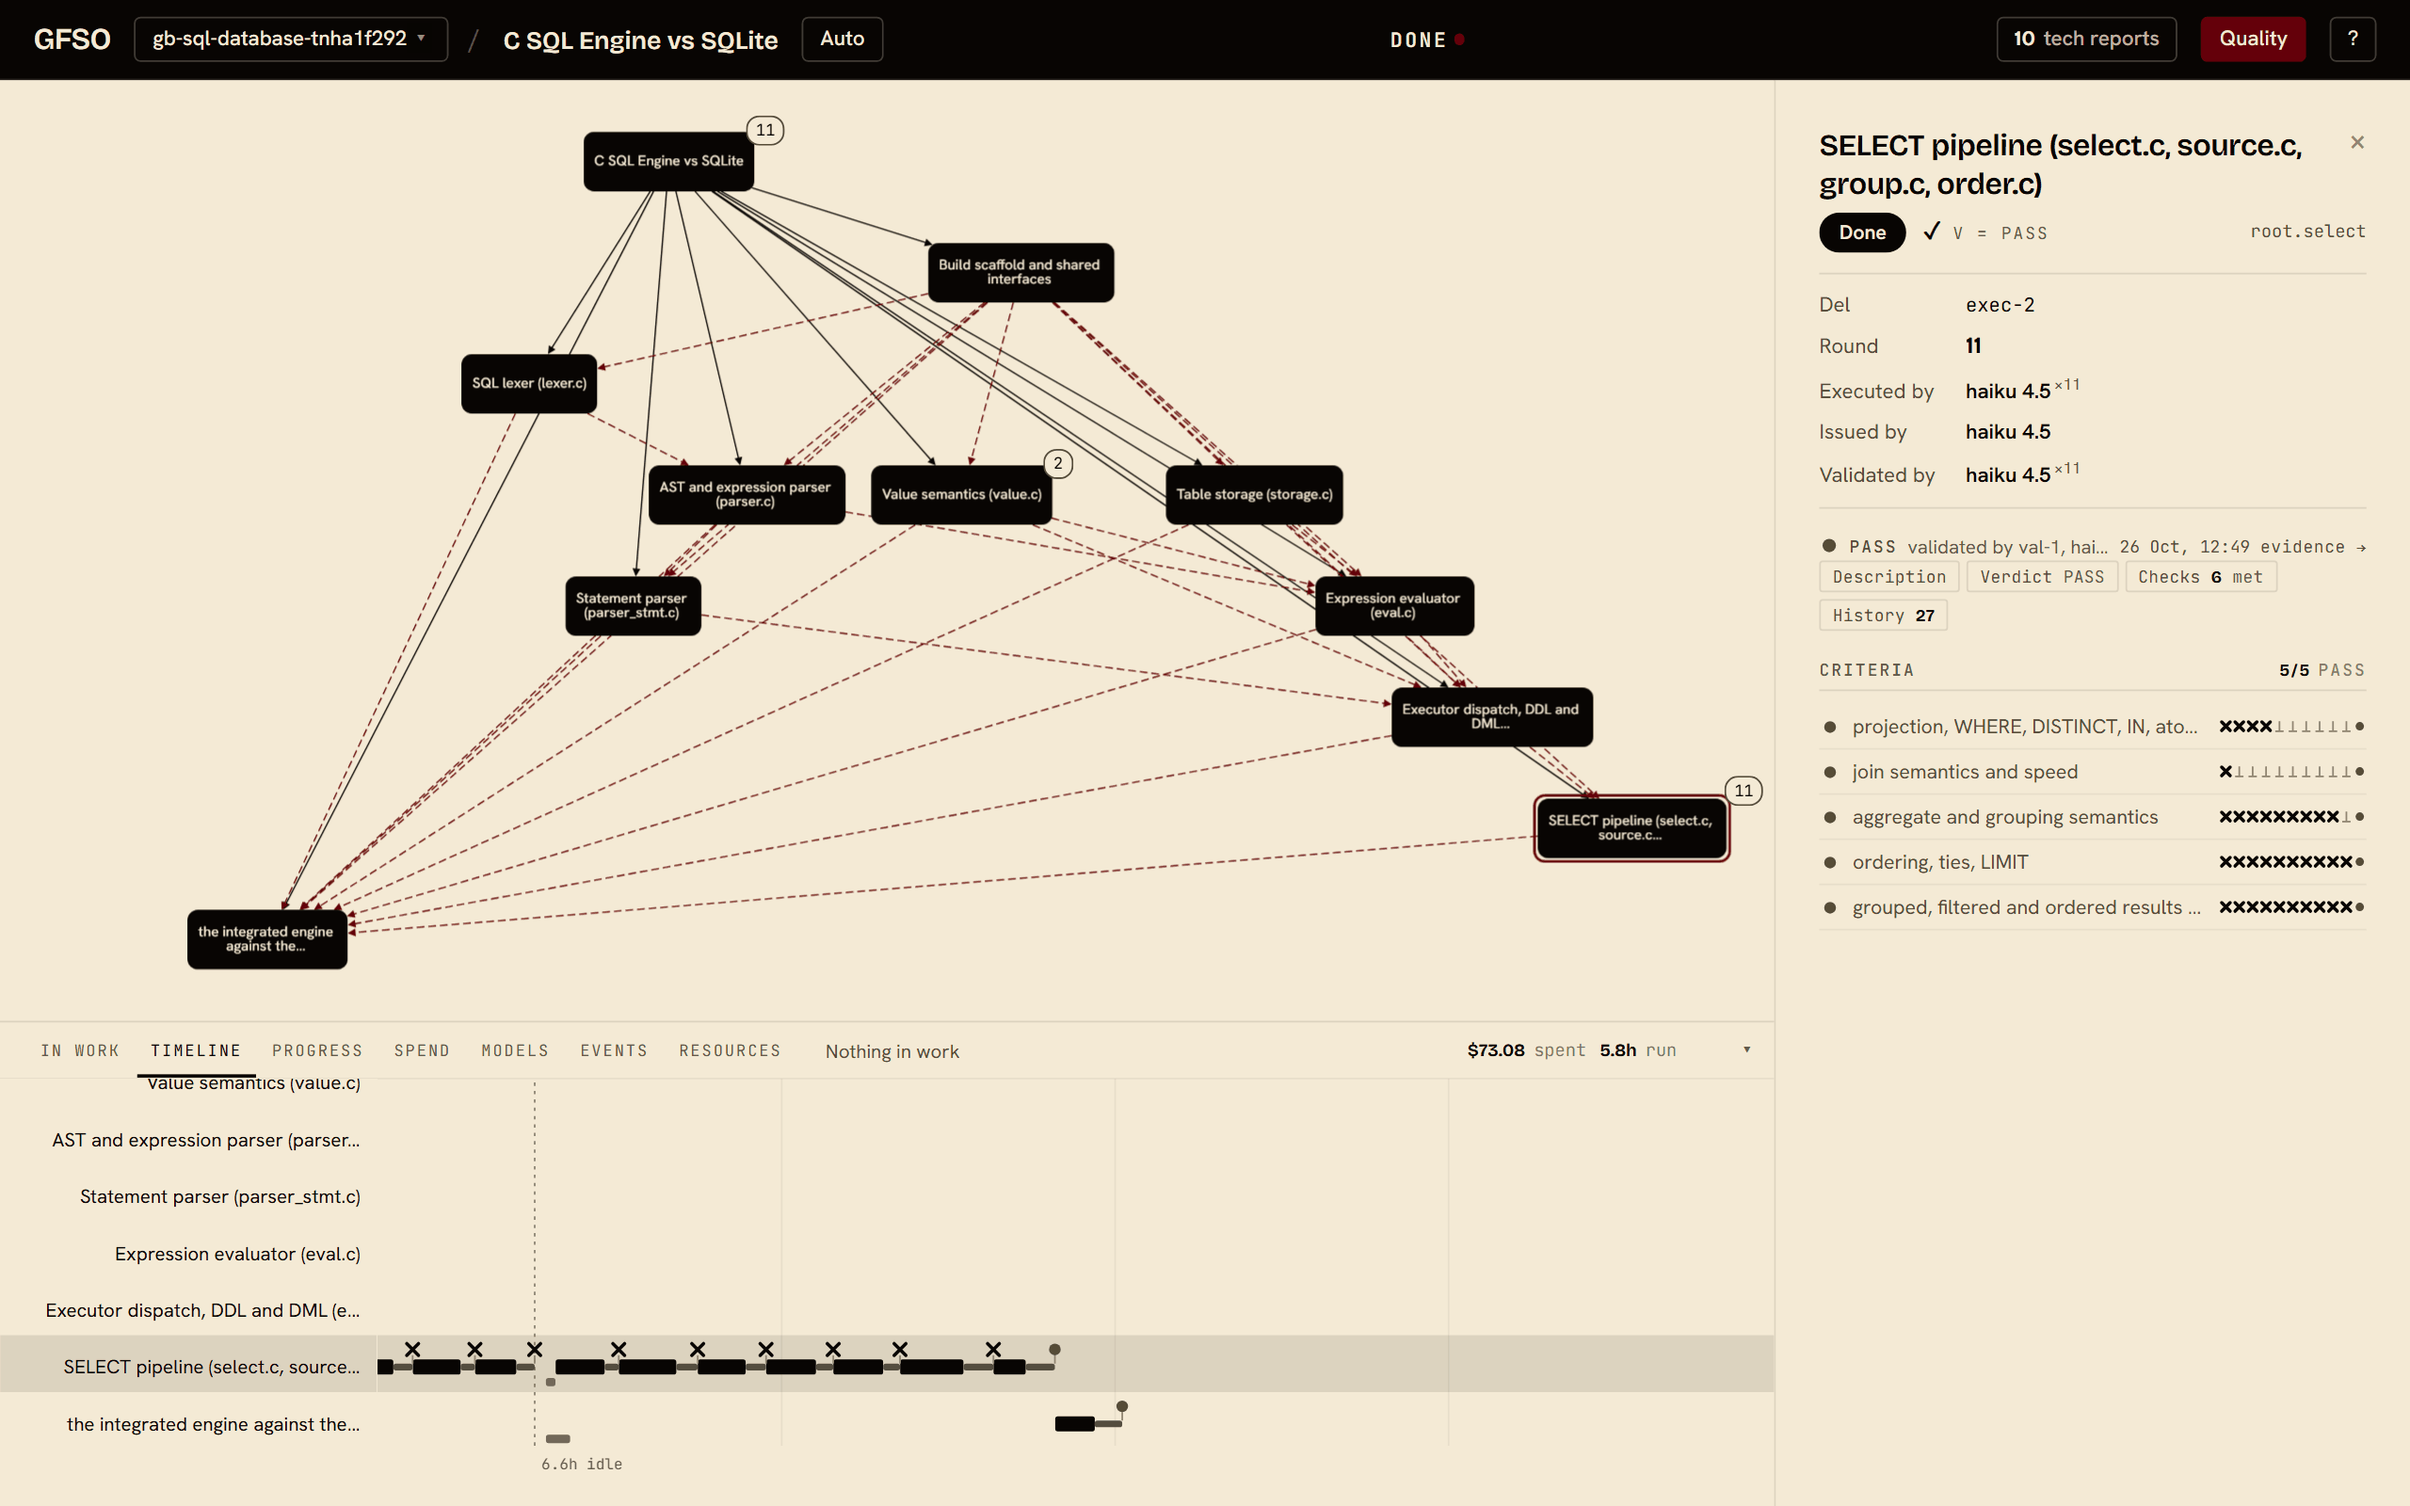
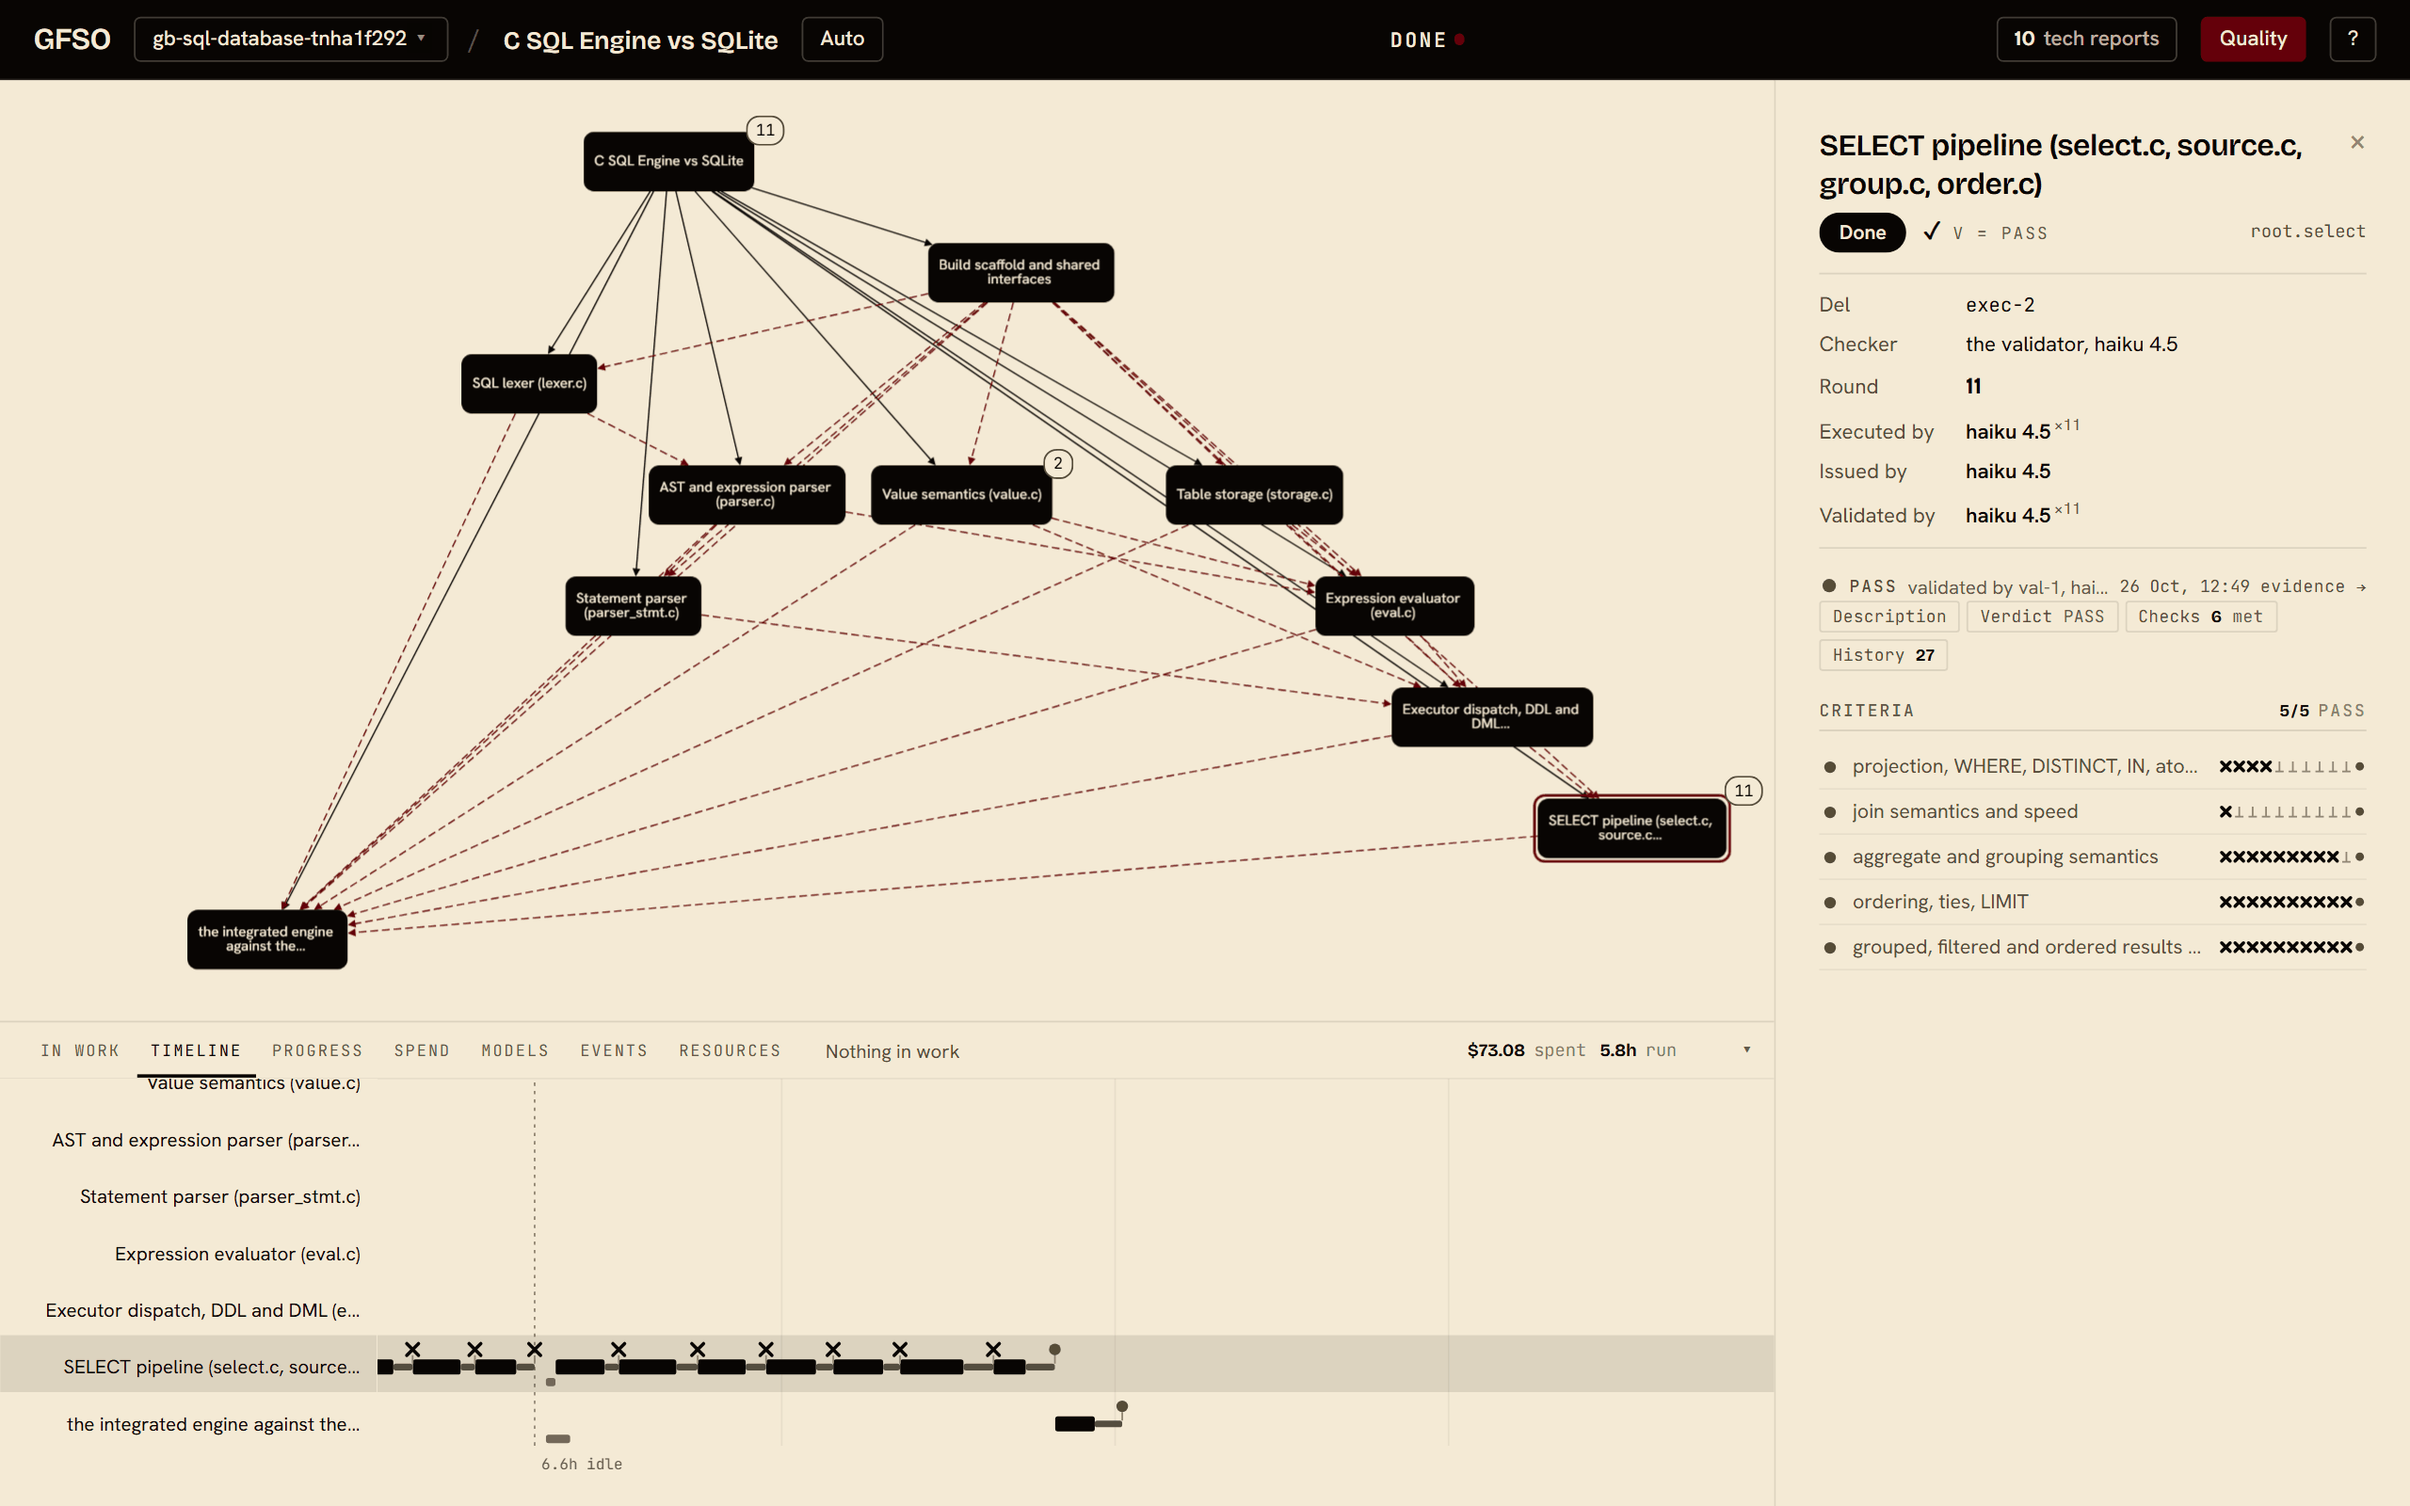
The README pictures are rebuilt from one generator run on today's page, the generator signing its page in as the person's own on loopback
On loopback the door sets no cookie for the person's page and knows it by the fetch metadata a browser adds (`Sec-Fetch-Site`); requests the generator intercepts carry none, so every read came back read only and the run stopped at its first frame. The generator now forwards `sec-fetch-site: same-origin`, as the browser would. `hero.gif` and `ui-panel.png` show the page as it is now (the panel's Checker row among what changed); `gate.png` came out byte-identical.

Changed region(s): [[0.75, 0.2188, 0.9688, 0.6562], [0.8125, 0.2188, 0.9062, 0.2812]]

diff --git a/scripts/readme_media.py b/scripts/readme_media.py
@@ -170,6 +170,9 @@ def frame(src: Path, T: str, shot: dict, png: Path) -> None:
         sent = {k: v for k, v in r.request.headers.items() if k.lower() != "host"}
         sent.update({k: v.replace("http://gfso.media", "http://127.0.0.1") for k, v in sent.items()
                      if k.lower() in ("origin", "referer")})          # …its own page, as the door checks a move's origin
+        # …and the fetch metadata a browser adds below the interception: on loopback the door sets no cookie and knows the
+        # person's page by it (`signin.principal_of`), so without it every read came back «read only»
+        sent.setdefault("sec-fetch-site", "same-origin")
         res = app.request(r.request.method, path, content=r.request.post_data_buffer, headers=sent, follow_redirects=False)
         body, kind = res.content, res.headers.get("content-type", "")
         if path.startswith("/api/") and res.status_code >= 400 and "/tasks/" not in path:   # a node's own read may 404
